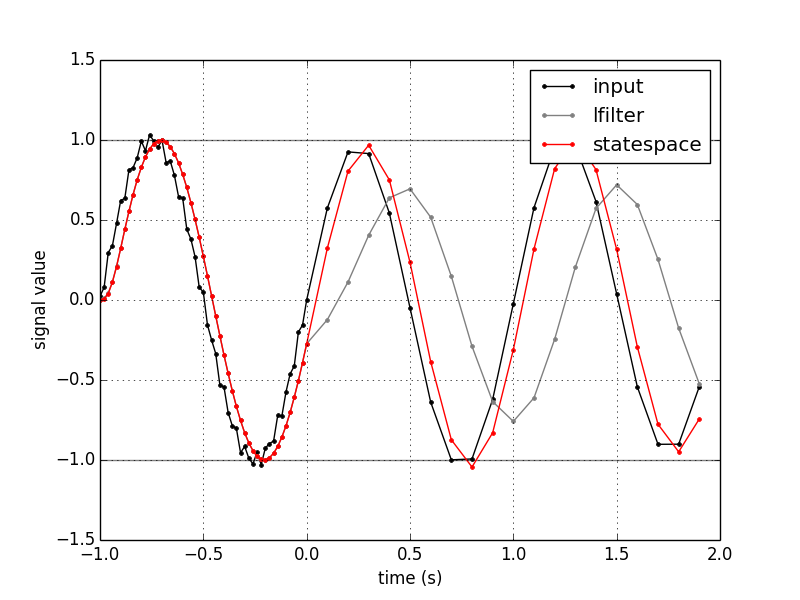
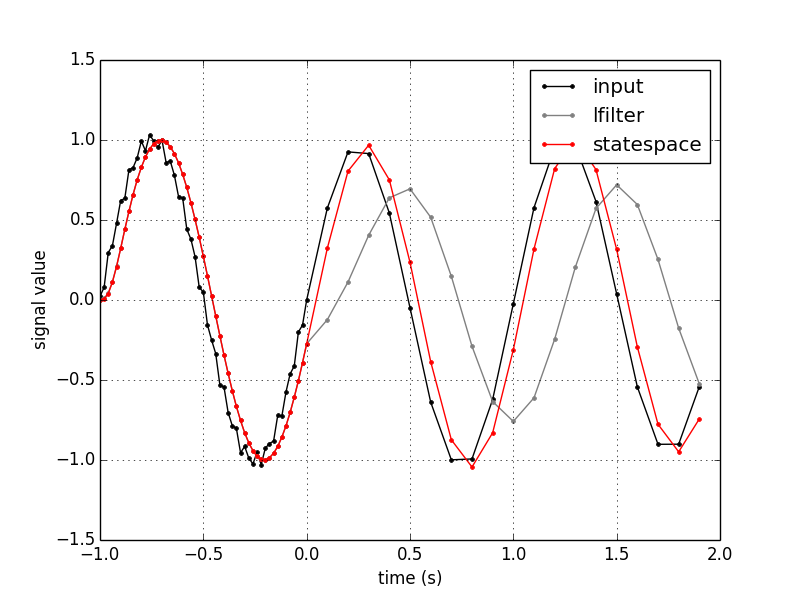
get rid of gain guidelines in noisy signal example

diff --git a/iir_example.py b/iir_example.py
@@ -66,10 +66,8 @@ def make_noisy_signal_plot():
 
     plt.savefig('plots/example-filter-design.png')
 
-    # Plot the time-domain response of this signal, with guidelines for expected gain.
+    # Plot the time-domain response of this signal.
     plt.figure()
-    plt.axhline(y=expected_gain, color='gray')
-    plt.axhline(y=-expected_gain, color='gray')
     plt.plot(t, x, '.-', color='black', label='input')
     plt.plot(t, lfilter_output, '.-', color='gray', label='lfilter')
     plt.plot(t, statespace_output, '.-', color='red', label='statespace')
